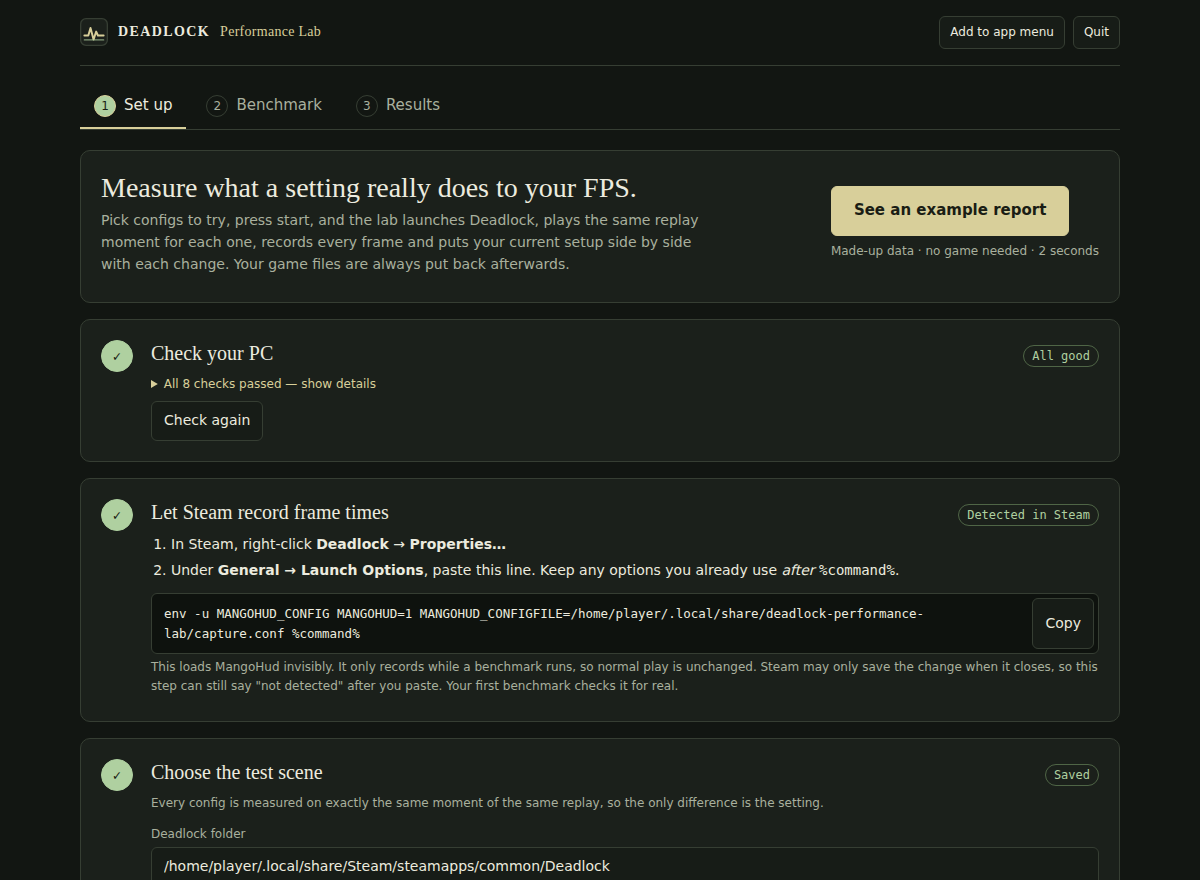
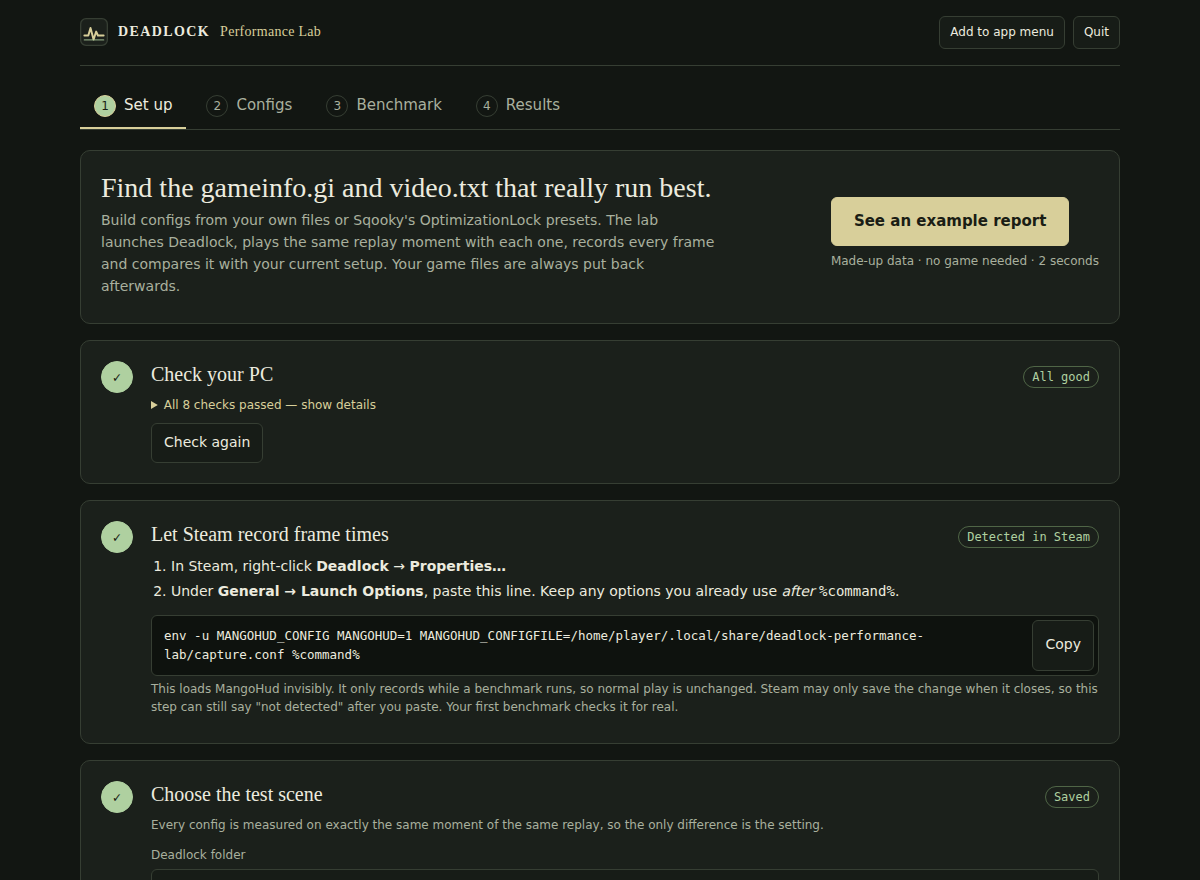
Document configs as the main workflow and refresh screenshots
- New docs/CONFIGS.md: presets, ticking settings, imports, video.txt,
  installing a winner, command-line equivalents
- README, quickstart, screening guide, methodology, troubleshooting,
  architecture, security and notices updated; nothing third-party is
  redistributed any more
- Screenshots of the setup page and the config builder

Claude-Session: https://claude.ai/code/session_01U2iCmntBdWdyokrAZEum7R

diff --git a/README.md b/README.md
@@ -13,7 +13,7 @@
 
 </div>
 
-Pick the configs you want to try (FPS caps, Vulkan or DX11, community `gameinfo.gi` files, or your own console settings) and press start. The lab launches Deadlock and plays the same replay moment for each config. MangoHud records every frame, and the report shows your current setup next to each change, with slow frames and how sure the result is. Your game files are put back after every capture.
+Build `gameinfo.gi` and `video.txt` configs from your own files, from [Sqooky's OptimizationLock](https://github.com/Sqooky/OptimizationLock) presets (fetched from GitHub, never bundled) or from a file you import. Tick and slide individual settings, grouped into categories with descriptions. Then press start: the lab launches Deadlock and plays the same replay moment with each config. MangoHud records every frame, and the report shows your current setup next to each config, with slow frames and how sure the result is. Your game files are put back after every capture.
 
 ![The app's setup page: PC checks, the Steam launch line to paste and the replay scene](docs/images/app-setup.png)
 
@@ -40,22 +40,23 @@ To update, run `pipx upgrade deadlock-perf-lab`, or `pipx install --force` with 
 
 ## Your first benchmark
 
-The app walks you through three tabs:
+The app walks you through four tabs:
 
 1. **Set up.** It checks for Steam, MangoHud and Deadlock, and gives you one line to paste into Deadlock's *Launch Options* in Steam. Then you pick a replay and the moment to measure. Your resolution, display mode and Proton version are filled in for you.
-2. **Benchmark.** Tick the configs to compare, choose **Quick look**, **Shortlist** or **Confirm**, and press **Start**. The app tells you in advance how many times Deadlock will launch and roughly how long it will take.
-3. **Results.** Open the report, confirm the captures you watched, and download a ZIP to share.
+2. **Configs.** Start from your current file, an OptimizationLock preset or an imported file, and tick the settings to change. Preview the exact file changes and save. [More about configs](docs/CONFIGS.md).
+3. **Benchmark.** Tick the configs to compare and choose **Quick look**, **Shortlist** or **Confirm**. Set the FPS limit (uncapped by default) and graphics API, which apply to every capture. Press **Start**; the app tells you in advance how many times Deadlock will launch and roughly how long it will take.
+4. **Results.** Open the report, confirm the captures you watched, and download a ZIP to share. Download a winning config's files from the Configs tab to install them.
 
-![Choosing configs and how thorough the benchmark should be](docs/images/app-benchmark.png)
+![Building a config from Sqooky's OptimizationLock, with settings grouped by category](docs/images/app-configs.png)
 
 For real benchmarks you need native (non-Flatpak) Steam, Deadlock, [MangoHud](https://github.com/flightlessmango/MangoHud#installation) and a downloaded match replay. The [first benchmark guide](docs/QUICKSTART.md) has details and tips on picking a good scene.
 
 ## What it does to your system
 
 - **Your setup is the baseline.** Each round measures it before and after the configs you picked, so drift from heat or background load shows up.
-- **Changes are temporary.** Each capture writes a temporary `autoexec_dpl.cfg` (and, for community configs, swaps `gameinfo.gi`), then launches the game, measures and restores the files. A crash-safe journal backs up the files first. If a power cut interrupts a run, the app shows **Restore my files** (or run `dpl recover`).
+- **Changes are temporary.** Each capture writes the config's `gameinfo.gi` and `video.txt` (and a small temporary `autoexec_dpl.cfg`), then launches the game, measures and restores your files. A crash-safe journal backs up the files first. If a power cut interrupts a run, the app shows **Restore my files** (or run `dpl recover`).
 - **It never touches Steam settings, drivers or a game you started yourself.** Benchmarks only play local replays (or a bot match), launched with `-insecure`, which turns VAC off for that launch.
-- **Everything stays on your machine.** The app only listens on `127.0.0.1`. Shared ZIPs contain the report only, not raw logs, game files or replay paths.
+- **Everything stays on your machine.** The app only listens on `127.0.0.1`. It contacts GitHub only when you pick an OptimizationLock preset. Shared ZIPs contain the report only, not raw logs, game files or replay paths.
 
 An **improved** or **regressed** verdict needs the **Confirm** length (five rounds), stable baselines, and your confirmation that the captures looked right. Shorter runs give you numbers but no verdict. Read [how results are measured](docs/METHODOLOGY.md).
 
@@ -69,7 +70,8 @@ Everything in the app is also available as a command, for scripting or remote us
 | `dpl demo --open` | Build and open the example report |
 | `dpl doctor` | Check Steam, MangoHud, the game and pending restores |
 | `dpl setup` | Print the Steam launch options line |
-| `dpl plan --cases fps-unlock,cap-144 --preset confirm` → `dpl run --live` | Plan and run a benchmark |
+| `dpl profile add my-config --gameinfo FILE --video FILE` | Save your own files as a config |
+| `dpl plan --cases my-config --preset confirm --fps-max 0` → `dpl run --live` | Plan and run a benchmark |
 | `dpl report --open` · `dpl export --output report.zip` | Open or share the latest report |
 | `dpl recover` | Put game files back after an interrupted run |
 | `dpl guide` · `dpl --help` | The terminal workflow and every command |
@@ -78,8 +80,9 @@ Settings and results live in `~/.local/share/deadlock-performance-lab`. Use `--w
 
 More guides:
 
-- [Test graphics, Proton or driver settings you change by hand](docs/MANUAL_EXPERIMENTS.md)
-- [Custom configs, one-cvar sweeps and screening many configs](docs/OPTIMIZATION.md)
+- [Custom gameinfo.gi and video.txt configs](docs/CONFIGS.md)
+- [Screening many single-cvar values](docs/OPTIMIZATION.md)
+- [Test Proton, driver or OS settings you change by hand](docs/MANUAL_EXPERIMENTS.md)
 - [How results are measured](docs/METHODOLOGY.md) · [Troubleshooting](docs/TROUBLESHOOTING.md)
 
 <details>
@@ -95,7 +98,7 @@ More guides:
 |---|---|
 | [`src/deadlock_perf_lab`](src/deadlock_perf_lab) | The `dpl` app and command line (standard library only) |
 | [`docs`](docs) | User guides, methodology and architecture |
-| [`examples`](examples) | Sample workspace settings, a custom config and a sweep matrix |
+| [`examples`](examples) | Sample workspace settings, a console-cvar file and a sweep matrix |
 | [`research`](research) | Scripts and inputs behind the published community experiments |
 | [`site`](site) | The community results website (GitHub Pages) |
 | [`tests`](tests) | Automated tests; no game or Steam needed |
@@ -104,4 +107,4 @@ More guides:
 
 See [CONTRIBUTING.md](CONTRIBUTING.md) for development setup and how to report bugs.
 
-[GPL-3.0-only](LICENSE). Bundled config credits and licenses are in [THIRD_PARTY_NOTICES.md](THIRD_PARTY_NOTICES.md). Independent community project, not affiliated with Valve.
+[GPL-3.0-only](LICENSE). Presets come from [Sqooky/OptimizationLock](https://github.com/Sqooky/OptimizationLock) (GPL-3.0) at your request; credits are in [THIRD_PARTY_NOTICES.md](THIRD_PARTY_NOTICES.md). Independent community project, not affiliated with Valve.

diff --git a/docs/OPTIMIZATION.md b/docs/OPTIMIZATION.md
@@ -1,42 +1,22 @@
-# Testing configurations
+# Screening many settings
 
-Start with one change and the same replay scene. The baseline is your current installation, including existing configs. See the [first experiment guide](QUICKSTART.md) for capture setup.
+Most people should build configs in the app ([custom gameinfo.gi and video.txt configs](CONFIGS.md)). This page covers larger, command-line experiments: testing many single-cvar values to find which settings matter, then confirming the best ones. The baseline is always your current installation. See the [first benchmark guide](QUICKSTART.md) for capture setup.
 
-## Built-in and custom profiles
+## Console cvars instead of files
 
-`dpl profiles` lists FPS caps, renderer flags and community GameInfo snapshots. Inspect a profile before planning:
-
-```bash
-dpl profile show fps-unlock
-dpl plan --cases fps-unlock --rounds 5
-```
-
-For a custom cvar, use **Add your own console settings** on the app's **Benchmark** tab, or:
+Configs change `gameinfo.gi` and `video.txt`. To test cvars set from the console at launch instead (a temporary `autoexec`):
 
 ```bash
-printf 'fps_max 165\n' > cap165.cfg
-dpl profile add cap-165 --autoexec cap165.cfg --description '165 FPS game cap'
-dpl plan --cases cap-165 --rounds 5
+printf 'r_farz 6000\n' > farz.cfg
+dpl profile add farz-6000 --autoexec farz.cfg --description 'Shorter far plane'
+dpl plan --cases farz-6000 --preset confirm
 ```
 
-Cvar profiles accept assignments and comments. Commands that load other configs, bind keys or change the scene are rejected. The source is copied into the profile and frozen in each plan. Readback checks confirm the requested value; inspect the game to check its actual effect.
-
-Use [manual experiments](MANUAL_EXPERIMENTS.md) for video settings, resolution, upscaling, Proton, drivers or OS settings. Record visual differences as well as frame times. A cap can lower average FPS while improving pacing.
-
-## Community GameInfo files
-
-The bundled files are attributed snapshots from 2026-09-04. They change many variables and can reduce visual quality or break with game updates. Inspect the diff against your installation:
-
-```bash
-dpl profile show community-sqooky --diff
-dpl plan --cases community-sqooky --rounds 5 --experimental
-```
-
-Whole-file swaps require `--experimental`. The tool restores your original files after the run. Source hashes and credits are in [THIRD_PARTY_NOTICES.md](../THIRD_PARTY_NOTICES.md).
+Only cvar assignments and comments are accepted. Commands that load other configs, bind keys or change the scene are rejected. Use [manual experiments](MANUAL_EXPERIMENTS.md) for settings the lab can't apply, such as Proton, drivers or OS settings. A frame cap and the graphics API are run settings, not configs: `--fps-max` and `--renderer` on `dpl plan`, or the Benchmark tab in the app.
 
 ## Screen a large set
 
-Use short captures to find candidates, then confirm them in a fresh experiment with longer captures and repeated rounds.
+Use short captures to find candidates, then confirm them in a fresh experiment with longer captures and repeated rounds. The app offers the first three presets as Quick look, Shortlist and Confirm.
 
 | Preset (app name) | Rounds by default | Capture | Warm-up | Settle | Cooldown |
 |---|---:|---:|---:|---:|---:|
@@ -56,7 +36,7 @@ dpl run --live
 dpl shortlist --top 5
 ```
 
-The CSV requires `id,cvar,value`, with an optional `name`. Each profile changes one direct ConVars assignment, or adds it if absent. Duplicate definitions and unchanged values are rejected. The base file must match your current GameInfo when you plan the live run. The [example matrix](../examples/convar-matrix.csv) contains candidates to test, not recommended settings. Quote selectors such as `'gi*'` to prevent shell expansion.
+The CSV requires `id,cvar,value`, with an optional `name`. Each profile changes one direct ConVars assignment, or adds it if absent. Duplicate definitions and unchanged values are rejected. The base file must match your current GameInfo when you plan the live run. Single-cvar sweeps are stricter than configs: a setting the console can't read back blocks that treatment's verdict, because the cvar is the thing being tested. The [example matrix](../examples/convar-matrix.csv) contains candidates to test, not recommended settings. Quote selectors such as `'gi*'` to prevent shell expansion.
 
 Inspect the shortlisted results, then use their profile IDs in a new plan:
 
@@ -73,10 +53,10 @@ Rankings use average FPS change and do not override measurement checks. Compare 
 dpl timings
 ```
 
-This shows successful-run durations, phase medians and an estimate of remaining time. GameInfo and renderer changes require a fresh process. A one-round screen of 50 treatments means 52 launches, including the two baselines. Launching, loading and seeking take time beyond the preset durations.
+This shows successful-run durations, phase medians and an estimate of remaining time. Every capture uses a fresh game process. A one-round screen of 50 treatments means 52 launches, including the two baselines. Launching, loading and seeking take time beyond the preset durations.
 
 Large launch delays can come from Steam shader preparation. Let it finish and keep the renderer and cache state consistent between trials. See [troubleshooting](TROUBLESHOOTING.md) for startup and capture failures.
 
-New plans start replay loading from the temporary startup config and seek immediately after confirmed signon. Cvar readback and final demo-info requests use engine acknowledgements rather than fixed delays; hidden cvars remain flagged. Readback runs during the configured camera-settle interval. These changes reduce setup time while retaining the configured warm-up and capture duration. Create a fresh plan to use the new replay-start protocol; existing plans preserve their recorded scenario.
+New plans start replay loading from the temporary startup config and seek immediately after confirmed signon. Cvar readback and final demo-info requests use engine acknowledgements rather than fixed delays; hidden cvars are reported. Readback runs during the configured camera-settle interval. These changes reduce setup time while retaining the configured warm-up and capture duration. Create a fresh plan to use the new replay-start protocol; existing plans preserve their recorded scenario.
 
 Repeated captures still launch a fresh process. Reusing a process for all five repetitions could save more launch/load time, but changes the independence and cache history of the experiment and is not supported by this runner. Replay seeking already uses the engine's fast-goto path when available; changing demo speed, cutting the replay file, or skipping warm-up can change the scene or cache state being measured.

diff --git a/docs/QUICKSTART.md b/docs/QUICKSTART.md
@@ -38,13 +38,23 @@ Keep any options you already use after `%command%`, and don't repeat `%command%`
 
 A **bot match** scene is available for rough CPU stress tests. Bots behave randomly, so bot results never get a verdict.
 
-Your baseline is your installation exactly as it is, including any existing `gameinfo.gi` or `autoexec.cfg` changes. If you want stock Deadlock as the control, restore it yourself first (for example with Steam's *Verify integrity of game files*).
+Your baseline is your installation exactly as it is, including any existing `gameinfo.gi` or `autoexec.cfg` changes. If you already use a modified `gameinfo.gi` and want to compare against stock, build a config from the **Clean Valve default** preset.
 
-## 2. Benchmark
+## 2. Build a config
+
+A config is the `gameinfo.gi` and/or `video.txt` you want to test. On the **Configs** tab, press **New config**, then:
+
+1. Choose what to **start from**: your current file, one of Sqooky's OptimizationLock presets (downloaded from GitHub when you pick it), or a file you import.
+2. Tick any settings you want to change on top. They are grouped by category, with descriptions.
+3. **Save config.**
+
+A good first comparison is **Sqooky's OptimizationLock**, saved unchanged. The [config guide](CONFIGS.md) covers presets, `video.txt`, imports and installing a winner.
+
+## 3. Benchmark
 
 On the **Benchmark** tab:
 
-1. **Tick the configs to compare.** Built-ins cover FPS caps, the Vulkan and DX11 renderers, and four attributed community `gameinfo.gi` files (marked *whole file*). Choose *Add your own console settings* for cvars such as `fps_max 165`.
+1. **Tick the configs to compare.** Your current setup is always included.
 2. **Choose how thorough:**
 
    | Length | Rounds | Capture | Use it for |
@@ -53,7 +63,8 @@ On the **Benchmark** tab:
    | Shortlist | 1 | 10 s | Screening many configs to find ones worth confirming |
    | Confirm | 5 | 30 s | A real answer: the only length that can give *improved* or *regressed* |
 
-3. **Close Deadlock and press Start.** The app shows how many launches and roughly how long before you start.
+3. **Check the run settings.** *FPS limit* (default **Uncapped**) and *Graphics API* (default: the game's) apply to every capture, your current setup included, so they never favour one config.
+4. **Close Deadlock and press Start.** The app shows how many launches and roughly how long before you start.
 
 Each round measures your current setup, then each config in a shuffled order, then your current setup again. One config at *Confirm* length means 15 launches. While it runs:
 
@@ -63,7 +74,7 @@ Each round measures your current setup, then each config in a shuffled order, th
 
 For the first run, a *Quick look* with one config is a good smoke test.
 
-## 3. Results
+## 4. Results
 
 The **Results** tab lists every benchmark. **Open report** shows:
 
@@ -71,7 +82,7 @@ The **Results** tab lists every benchmark. **Open report** shows:
 - **Each config against the baseline:** average FPS, 1% lows, P99 frame time, the change in percent with a 95% interval, and a verdict with the reasons it was or wasn't given.
 - **Frame-time traces.** Overlay any two captures to see stutters.
 
-**Details & review** lists every capture. The lab can't see your screen, so live captures carry checks only you can clear. Confirm that the camera stayed on the player, the replay kept playing and the config visibly applied. Tick the captures you actually watched and describe how you checked. Verdicts stay *inconclusive* until the relevant captures are confirmed. The app can't clear malformed data, missing settings or failed cvar readback.
+**Details & review** lists every capture. The lab can't see your screen, so live captures carry checks only you can clear. Confirm that the camera stayed on the player, the replay kept playing and the config looked as intended. Tick the captures you actually watched and describe how you checked. Verdicts stay *inconclusive* until the relevant captures are confirmed. The app can't clear malformed data, missing settings or failed cvar readback.
 
 **Share ZIP** downloads `index.html`, `summary.md`, `summary.json` and `runs.csv`, which open offline. Raw logs, backups, configs and replay paths stay on your machine. Your config names and notes are included, so check them before sharing.
 
@@ -83,12 +94,12 @@ Rerun a promising result as a new *Confirm* benchmark before trusting it. The [m
 dpl doctor                                   # check your PC
 dpl setup                                    # print the Steam launch options line
 $EDITOR ~/.local/share/deadlock-performance-lab/lab.json   # replay, tick, player, conditions
-dpl profiles                                 # list configs; dpl profile show ID for details
-dpl plan --cases fps-unlock --preset confirm # freeze a plan and print its schedule
+dpl profile add my-config --gameinfo ~/Downloads/gameinfo.gi   # and/or --video FILE
+dpl plan --cases my-config --preset confirm --fps-max 0   # freeze a plan and print its schedule
 dpl run --live                               # close Deadlock first
-dpl review --run 002-fps-unlock --note 'Watched it: camera stayed on player 1 and the replay kept playing.'
+dpl review --run 002-my-config --note 'Watched it: camera stayed on player 1 and the replay kept playing.'
 dpl report --open
 dpl export --output report.zip
 ```
 
-`dpl plan --cases baseline --rounds 1` followed by `dpl run --live` is a quick smoke test. The plan freezes configs, replay, conditions and run order. Create a new plan to change any of them.
+`dpl plan --cases baseline --rounds 1` followed by `dpl run --live` is a quick smoke test. The plan freezes the exact config files, run settings, replay, conditions and run order. Create a new plan to change any of them.

diff --git a/docs/CONFIGS.md b/docs/CONFIGS.md
@@ -1,0 +1,54 @@
+# Custom gameinfo.gi and video.txt configs
+
+A **config** is the `gameinfo.gi` and/or `video.txt` you want to test. The lab compares each config with your current setup on the same replay moment. It writes the config's files into the game only while a capture runs, and restores yours afterwards.
+
+| File | Where it lives | What it controls |
+|---|---|---|
+| `gameinfo.gi` | `steamapps/common/Deadlock/game/citadel/` | Engine settings. Its `ConVars` block holds the performance cvars that community configs tweak. |
+| `video.txt` | `steamapps/common/Deadlock/game/citadel/cfg/` | The in-game video options: resolution, shadow and fog quality, upscaling, and so on. |
+
+## Build a config in the app
+
+Open **Configs → New config**. Each file has its own tab (**gameinfo.gi** and **video.txt**), and both work the same way.
+
+1. **Start from** a file:
+   - **My current file**: your installed file. Nothing changes until you tick settings.
+   - **A community preset** from [Sqooky's OptimizationLock](https://github.com/Sqooky/OptimizationLock): OptimizationLock, Boot's maximum FPS, Kaizuchaneru's minimum spec, the test config, Piggy's (outdated) or the clean Valve default. For `video.txt`: Liah's (test config) or Piggy's. The app downloads the file from GitHub when you pick it (and caches it for an hour), so you always get the current version. Nothing is bundled with the app.
+   - **Import a file…**: any `gameinfo.gi` or `video.txt` you already have, for example one shared by a friend or your own hand-edited file.
+2. **Tick the settings to change.** The settings are grouped into the same categories as OptimizationLock's documentation (Shadows, Particles, Lod & Culling, and so on), with its descriptions. Each row shows:
+   - the value in the starting file,
+   - your installed value (highlighted when different),
+   - the engine default,
+   - OptimizationLock's value.
+
+   On/off settings get a switch; numbers get a slider and a box. Use the search box to find a setting by name or description. To test a cvar that isn't listed, type it under **Add any other setting**: the list covers every modifiable cvar documented upstream.
+3. **Preview file changes** shows exactly what will be written, as a diff against your installed files.
+4. **Save config.** It appears in the list and is ticked on the **Benchmark** tab.
+
+Some notes on how the files are combined:
+
+- A preset or imported `gameinfo.gi` **replaces the whole file**, including engine sections outside `ConVars`, just as installing it by hand would. Your ticked settings are applied on top, like the `overrides.gi` of OptimizationLock's own updater. If a preset was made for a different game version (its `PGIVersion` differs), the preview and the results say so. Pick the preset again to refresh it.
+- A preset or imported `video.txt` always keeps your own `VendorID`, `DeviceID` and format `Version`. By default it also keeps your resolution, display mode, VSync and brightness, so only quality settings differ. Untick **Keep my resolution…** to test those too.
+- The config stores the exact starting file it was saved with. Past results always keep their own frozen copy, so editing or deleting a config never changes them.
+
+## Use the winner
+
+After a **Confirm** benchmark shows a config you like, download its finished files from the config list (**gameinfo.gi ↓**, **video.txt ↓**). Close Deadlock, back up your files, and copy them into the folders above. The lab never installs a config permanently. After a game update, rebuild the config, or refresh its preset, and re-test.
+
+## Tips
+
+- Test one idea per config: a preset as it is, then the preset plus the one change you care about. A config that changes 250 settings tells you whether the whole package helps, not which setting did it.
+- Keep the run settings on the Benchmark tab the same for configs you want to compare. **FPS limit** (default: uncapped) and **Graphics API** apply to every capture, including your current setup.
+- Many `gameinfo.gi` cvars are hidden from the console, so the lab can't read them back. It reports how many it couldn't confirm; that doesn't invalidate the measurement of the file as a whole. Settings that read back a *different* value are listed in the report's notes.
+- The game may rewrite `video.txt` (older configs had to be made read-only for this reason). If it does during a capture, the report notes which values changed, and the lab still restores your file afterwards.
+
+## From the command line
+
+```bash
+dpl profile add my-config --gameinfo ~/Downloads/gameinfo.gi --video ~/Downloads/video.txt
+dpl profile show my-config --diff        # what it would write, against your installed files
+dpl plan --cases my-config --preset confirm --fps-max 0
+dpl run --live
+```
+
+`--video` keeps your device and display settings in the same way as the app. `--fps-max N` sets an FPS limit for every capture (0 = uncapped; leave it out to keep the game's own). `--renderer vulkan|dx11` launches every capture with that API. To test many single-cvar values at once, see [screening many settings](OPTIMIZATION.md).

diff --git a/CHANGELOG.md b/CHANGELOG.md
@@ -2,10 +2,13 @@
 
 ## 0.3.0 — Unreleased
 
-**A graphical app.** Running `dpl` now opens a local app in your browser. It guides you through setup, benchmarking and results, so you no longer have to edit `lab.json` by hand or learn the commands. Every command still works.
+**A graphical app built around your own configs.** Running `dpl` now opens a local app in your browser. It guides you through setup, building `gameinfo.gi`/`video.txt` configs, benchmarking and results, so you no longer have to edit `lab.json` by hand or learn the commands. Every command still works.
 
 - **Set up** checks Steam, MangoHud and the game, and shows the Steam launch options line with a Copy button. It detects whether the line is saved in Steam and lists your downloaded replays. Resolution, display mode and Proton version are filled in from the game's `video.txt` and Steam's settings.
-- **Benchmark** lets you tick configs (including your own console settings), choose Quick look, Shortlist or Confirm, and see the number of launches and estimated time before you start. Runs continue in the background with live progress and a Cancel button that restores your files.
+- **Configs** is the new centre of the app. Start a `gameinfo.gi` or `video.txt` from your installed file, from a Sqooky/OptimizationLock preset (downloaded from GitHub when chosen: OptimizationLock, Boot, Kaizuchaneru, test, Piggy, clean Valve; Liah's and Piggy's `video.txt`) or from an imported file. Then tick settings grouped by OptimizationLock's categories and descriptions, with switches for on/off settings, sliders for numbers and search across every documented cvar. Preview the exact diff, save, edit, duplicate, and download the finished files to install a winner. `video.txt` presets keep your GPU identifiers and, by default, your resolution and display settings.
+- Configs are frozen into each plan as the exact files they write, so later edits or preset updates never change past results. Readback of hidden `gameinfo.gi` cvars is reported instead of blocking a config's verdict. A `video.txt` the game rewrites is still restored, and the report notes the changed values.
+- **Benchmark** lets you tick configs, choose Quick look, Shortlist or Confirm, and see the number of launches and estimated time before you start. **FPS limit** (uncapped by default) and **graphics API** are now run settings that apply to every capture, baseline included (`dpl plan --fps-max N --renderer vulkan|dx11`). Runs continue in the background with live progress and a Cancel button that restores your files.
+- **Removed the bundled treatments.** The FPS-cap and renderer profiles are replaced by the run settings above. The four bundled community `gameinfo.gi` snapshots are replaced by presets fetched on request. `dpl profile add ID --gameinfo FILE --video FILE` saves your own files as a config, and `dpl plan` now requires `--cases`. Existing sessions keep their frozen copies and stay readable.
 - **Results** lists every session with Open report, Share ZIP and a review panel, so you can confirm the captures you watched. It also shows a **Restore my files** banner after an interrupted run.
 - **Add to app menu** (or `dpl shortcut`) installs a desktop launcher. Opening the app again reuses a running window, and the app closes itself after 30 idle minutes.
 - The app listens only on `127.0.0.1` and needs a per-launch secret cookie, the expected Host header and, for changes, a custom request header.
@@ -24,7 +27,8 @@
 - The project is called Deadlock Performance Lab everywhere. Links point to the renamed repository; the old GitHub Pages address returned 404.
 - The published results website moved to `site/`, and the value-sweep scripts and matrix moved to `research/`. Removed the machine-specific `BENCHMARK-LAUNCH.md` runbook.
 - The README and first-benchmark guide are rewritten around the app. The other guides point to the new workspace location.
-- `THIRD_PARTY_NOTICES.md` and the GameInfo source manifest now record the 2026-09-06 comment-line edits to three bundled files, with current hashes. They previously described the files as unchanged.
+- `THIRD_PARTY_NOTICES.md` now describes presets fetched from OptimizationLock; no third-party config files are redistributed.
+- New [config guide](docs/CONFIGS.md); the screening guide now focuses on single-cvar sweeps.
 - Earlier unreleased changes: removed the report header badge, baseline-history panel, iteration-time panel and Print/PDF button; replaced the sort dropdown with sortable columns; separated workspace setup, planning, capture processing and report rendering.
 
 ## 0.2.0 — 2026-09-06

diff --git a/docs/METHODOLOGY.md b/docs/METHODOLOGY.md
@@ -8,7 +8,7 @@ The runner waits for a fresh game process, a run-specific Deadlock CSV and the e
 
 New plans use readiness protocol `source2-demo-signon-v3`: the temporary startup config opens the replay, and the runner seeks as soon as completed signon is observed. A unique per-launch marker allows recovery of early signon output from `console.log` without accepting stale output. Older frozen plans retain their console-started replay and recorded load guard. Warm-up, the final re-seek, camera settling and sample duration remain explicit plan settings.
 
-Cvar queries use one ordered batch followed by a unique engine echo acknowledgement. Missing replies remain quality blockers; they no longer incur a five-second wait per hidden variable. A missing acknowledgement fails the capture. Readback overlaps camera settling, and the final demo-info request uses an acknowledgement instead of a fixed shutdown delay. Full GameInfo restarts and transaction restoration remain in place for every capture.
+Cvar queries use one ordered batch followed by a unique engine echo acknowledgement, so hidden variables don't incur a five-second wait each. For single-cvar sweeps and console-cvar profiles, a missing or different reply is a quality blocker, because that cvar is the thing being tested. A config is measured as a whole file: the lab reads back every `gameinfo.gi` setting that differs from your installed file and reports how many are hidden and which read back differently, without blocking the verdict. The run-wide FPS limit is read back and reported the same way. If the game rewrites `video.txt` during a capture, the changed values are reported and the original file is still restored. A missing acknowledgement fails the capture. Readback overlaps camera settling, and the final demo-info request uses an acknowledgement instead of a fixed shutdown delay. Full GameInfo restarts and transaction restoration remain in place for every capture.
 
 A positive finite frame time is retained regardless of size. Nonpositive, NaN, infinite and malformed rows are counted and disclosed; automated verdicts remain blocked when they occur. Missing logs, insufficient samples, backwards timestamps, mismatched per-frame coverage and incomplete windows fail the capture. No real-run fallback produces synthetic FPS or CPU data.
 

diff --git a/docs/ARCHITECTURE.md b/docs/ARCHITECTURE.md
@@ -7,8 +7,9 @@
 | `cli.py` | Arguments and command dispatch; `dpl` alone opens the app |
 | `gui.py`, `assets/app.html` | Local app server (127.0.0.1, per-launch secret cookie) and its single-page interface; benchmarks run as detached `dpl run` processes |
 | `workspace.py` | Default workspace location, settings validation, capture setup and session lookup |
-| `profiles.py`, `sweep.py` | Profile validation, bundled snapshots and one-cvar GameInfo variants |
-| `planning.py` | Presets, frozen profiles, randomized schedules and plan verification |
+| `configs.py` | gameinfo.gi / video.txt configs: presets fetched from OptimizationLock, setting catalogue, ConVars and video.txt editing, the exact files a config writes |
+| `profiles.py`, `sweep.py` | Profile validation (baseline, configs, console cvars, manual) and one-cvar GameInfo sweeps |
+| `planning.py` | Presets, run settings (FPS limit, renderer), configs materialized into frozen plans, randomized schedules and plan verification |
 | `system.py` | Steam discovery and read-only settings detection (launch options, resolution, Proton), setup checks, fingerprints, process identity and install lock paths |
 | `runner.py`, `vconsole.py` | Game lifecycle, replay control and capture orchestration |
 | `transaction.py`, `storage.py` | Atomic writes, backups, recovery journals and locks |
@@ -25,7 +26,8 @@ Capture and import code do not depend on report rendering. Plans own the experim
 ~/.local/share/deadlock-performance-lab/   # or --workspace / DPL_WORKSPACE / legacy ./.lab
   lab.json                         # conditions and scenario (app Set up tab)
   capture.conf / manual.conf        # MangoHud configuration
-  profiles/<id>.json                # custom profile snapshots
+  profiles/<id>.json                # your configs (starting file frozen in) and other custom profiles
+  cache/optimizationlock/           # presets downloaded from GitHub (refreshed hourly)
   imports/                         # manually captured logs
   sessions/<UTC>-<random>/
     plan.json                      # frozen plan with SHA-256

diff --git a/docs/TROUBLESHOOTING.md b/docs/TROUBLESHOOTING.md
@@ -6,6 +6,10 @@
 | The app doesn't open in a browser | Open the `http://127.0.0.1:…` address that `dpl` prints. Over SSH, use `dpl gui --no-browser --port 8765` with `ssh -L 8765:127.0.0.1:8765`. |
 | "This link has expired" | The app was closed, or it quit after 30 idle minutes. Run `dpl` again. |
 | Steam launch options "not detected" | Steam may save them only when it closes. If you pasted the line from the app, carry on: the first capture fails with a clear message if MangoHud isn't recording. "Points elsewhere" means the line was pasted from another workspace; paste it again. |
+| Presets "couldn't download" | The app fetches OptimizationLock presets from `raw.githubusercontent.com`. Check your connection or proxy, then press **Refresh**/**Try again**. A previously downloaded copy is used offline. Your own files and imports work without internet. |
+| "Made for a different game version" | The preset's `PGIVersion` differs from your installed `gameinfo.gi`, usually after a game update. Pick the preset again for the latest version. If the game misbehaves with a whole-file preset, test your own file plus ticked settings instead. |
+| "The game rewrote video.txt" | Deadlock normalized or rejected some video settings. The listed values are what the game actually used; your file was still restored. |
+| Many settings "hidden from the console" | Normal for `gameinfo.gi` cvars. The whole file was still applied and measured; only individual confirmation is missing. |
 | Where are my results? | In `~/.local/share/deadlock-performance-lab` (shown at the bottom of the app), or `./.lab` for workspaces made by earlier versions. `dpl --workspace PATH` picks another. |
 | Game install not discovered | Type the folder into the app's **Set up** tab (or set `install` in `lab.json`); it contains `game/citadel/gameinfo.gi`. Native Steam is the supported launcher. |
 | No game within 180 seconds | Sign into Steam, launch Deadlock once normally, finish updates and shader processing, close it, then retry with a new plan. See the run's `steam.log` and Steam's own logs. |

diff --git a/THIRD_PARTY_NOTICES.md b/THIRD_PARTY_NOTICES.md
@@ -1,10 +1,10 @@
 # Third-party notices
 
-## OptimizationLock community GameInfo snapshots
+## OptimizationLock presets
 
-`src/deadlock_perf_lab/assets/gameinfo/` contains four GameInfo files from [Sqooky/OptimizationLock](https://github.com/Sqooky/OptimizationLock), originally fetched by this project's research workspace on 2026-09-04. They are distributed under the upstream GPL v3 license; a complete license copy is included beside them and at this repository's root. Three of the files were modified on 2026-09-06 by removing one credit comment line each; no settings were changed. See the source manifest for details.
+The app can download community `gameinfo.gi` and `video.txt` presets, and the cvar reference list, from [Sqooky/OptimizationLock](https://github.com/Sqooky/OptimizationLock), licensed GPL-3.0. Nothing from that repository is bundled or redistributed with this project. Files are fetched from GitHub only when you choose a preset, cached in your workspace, and frozen unchanged into configs you save. The app keeps your own `VendorID`, `DeviceID`, format version and (optionally) display settings when it combines a `video.txt` preset with your file, and applies the settings you tick on top.
 
-Credit: Sqooky, Boot, Kaizuchaneru and the many contributors acknowledged in the [upstream README](https://github.com/Sqooky/OptimizationLock/blob/main/README.md). Exact source paths, byte counts and SHA-256 hashes are recorded in [the source manifest](src/deadlock_perf_lab/assets/gameinfo/SOURCES.md). The attribution does not imply endorsement of this tool or its measurements.
+Credit: Sqooky, Boot, Kaizuchaneru, Liah, Piggy and the many contributors acknowledged in the [upstream README](https://github.com/Sqooky/OptimizationLock/blob/main/README.md). The preset names and paths mirror OptimizationLock's own `gameinfo_updater.py`. Mentioning them does not imply endorsement of this tool or its measurements.
 
 Application code is licensed GPL-3.0-only. Copyright © 2026 Deadlock Performance Lab contributors.
 

diff --git a/SECURITY.md b/SECURITY.md
@@ -4,4 +4,4 @@ Report vulnerabilities through GitHub's private vulnerability reporting if enabl
 
 The tool runs as your user and temporarily writes game config files. Its VConsole connection uses `127.0.0.1:29000`; do not expose that port through a firewall or tunnel. Automated sessions use local replays or bots with `-insecure`.
 
-The app listens only on `127.0.0.1`. Each launch creates a secret that the opened link turns into a `SameSite=Strict` cookie, so other websites and other users' browsers can't drive it. Don't expose its port through a tunnel or proxy. The app does not upload data. Report exports exclude raw logs, backups, profile contents and absolute replay paths, but include your labels and notes. Review those before sharing. Raw workspaces may contain account identifiers, local paths and personal configs.
+The app listens only on `127.0.0.1`. Each launch creates a secret that the opened link turns into a `SameSite=Strict` cookie, so other websites and other users' browsers can't drive it. Don't expose its port through a tunnel or proxy. The app does not upload data. It downloads files from `raw.githubusercontent.com/Sqooky/OptimizationLock` only when you choose a preset, and validates them as `gameinfo.gi`/`video.txt` before use; preview a config's changes before benchmarking it. Report exports exclude raw logs, backups, profile contents and absolute replay paths, but include your labels and notes. Review those before sharing. Raw workspaces may contain account identifiers, local paths and personal configs.
